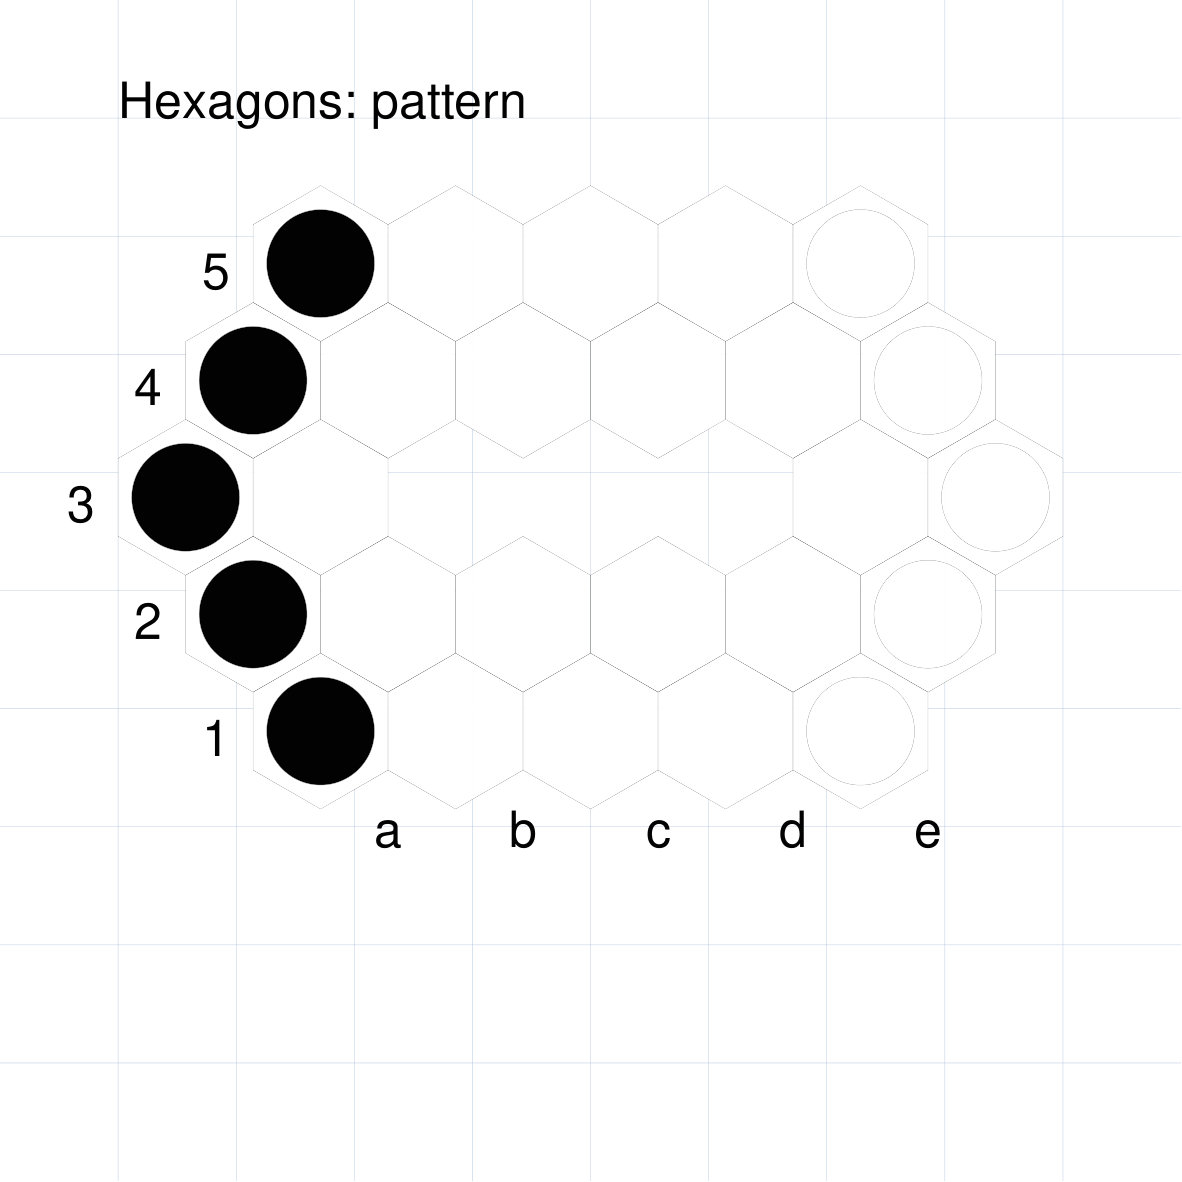
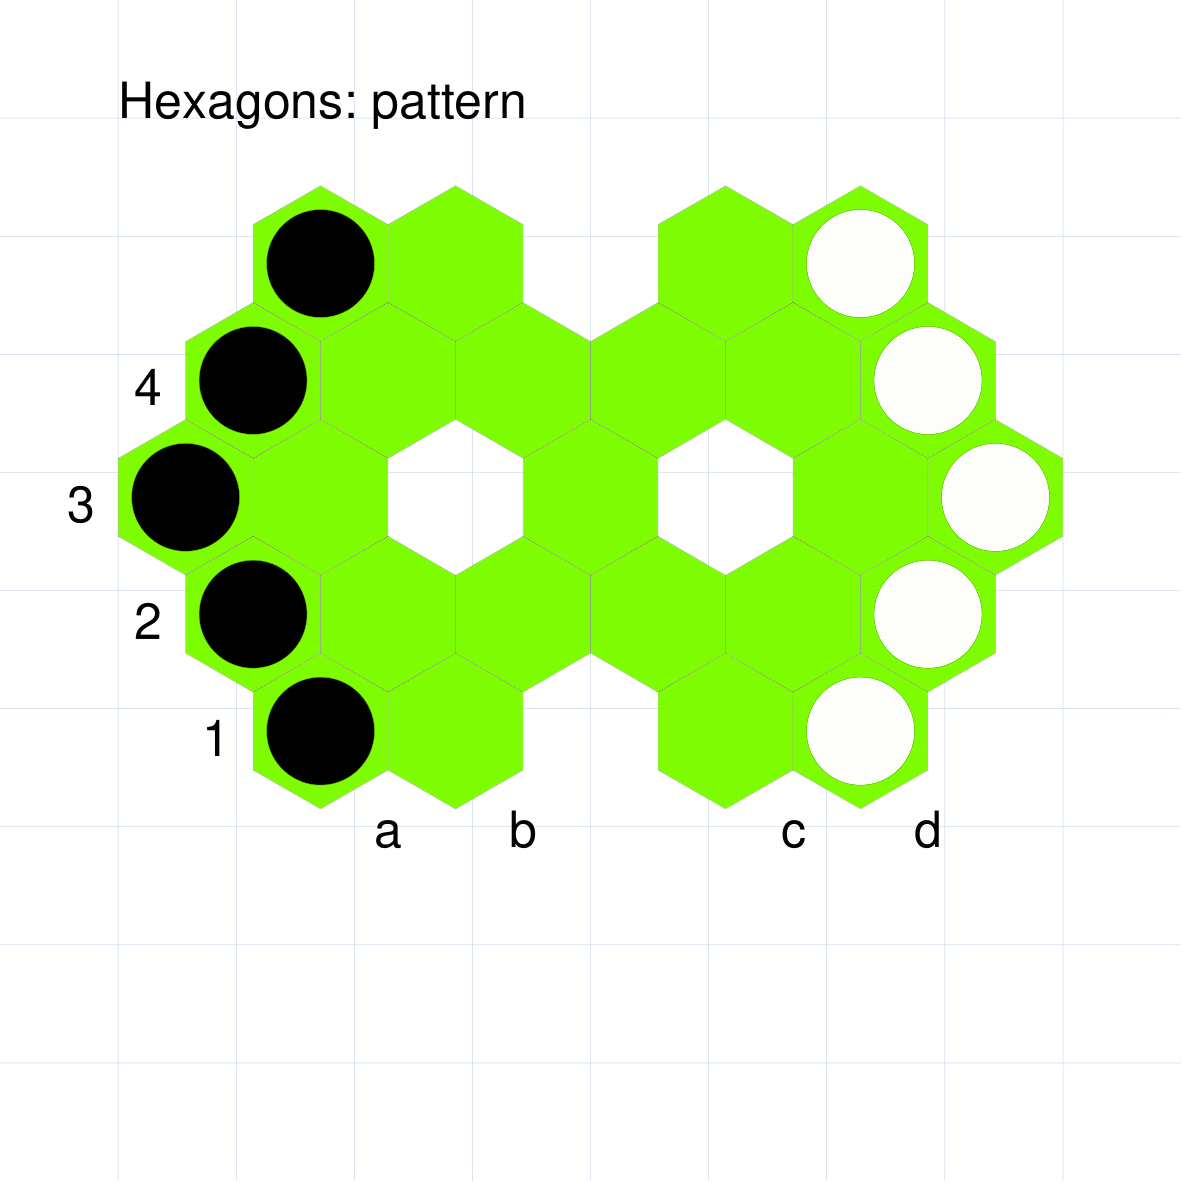
WIP on Hex Abstracts label

diff --git a/protograf/objects/abstracts.py b/protograf/objects/abstracts.py
@@ -113,11 +113,18 @@ class AbstractGameObject(BaseShape):
         # ---- setup board
         self.setup_board()
 
+    def hexhex_size(text):
+        # Search for one or more digits at the end of the string
+        match = re.search(r"\d+$", text)
+        if match:
+            number = match.group()
+            return int(number)
+
     def game_name_error(self):
         """Generate feedback if incorrect game name used."""
         feedback(
             "The AbstractGame 'name' property must be one of the following: "
-            f" Chess, Go, Checkers, Shogi, Hex, or grid (not '{self.name}').",
+            f" Chess, Go, Checkers, Shogi, Hex, HexHex, or grid (not '{self.name}').",
             True,
             True,
         )
@@ -197,6 +204,10 @@ class AbstractGameObject(BaseShape):
                 self.label_start = "TR"
                 self.label_type = "NN"
             case "hexagons":
+                if self.fills is None:
+                    self.fills = ("white",)
+                if self.stroke is None:
+                    self.stroke = "black"
                 if not self.rows:
                     self.rows = 8
                 if not self.cols:
@@ -209,6 +220,10 @@ class AbstractGameObject(BaseShape):
                 if self.label_type is None:
                     self.label_type = "AN"
             case "hex":
+                if self.fills is None:
+                    self.fills = ("white",)
+                if self.stroke is None:
+                    self.stroke = "black"
                 self.rows = 11
                 self.cols = 16
                 _max_cells = max(self.rows, self.cols)
@@ -233,6 +248,10 @@ class AbstractGameObject(BaseShape):
                 """
             case "hexhex":
                 # TODO - calc rows and cols from side
+                if self.fills is None:
+                    self.fills = ("white",)
+                if self.stroke is None:
+                    self.stroke = "black"
                 _max_cells = self.side * 2 - 1
                 self.cell_size = _available / _max_cells / 0.866
                 self.board_type = "hexagonal"
@@ -240,11 +259,19 @@ class AbstractGameObject(BaseShape):
                 self.label_type = "AN"
             case "tri" | "triangle" | "triangular":
                 self.board_type == "tri"
+                if self.fills is None:
+                    self.fills = ("white",)
+                if self.stroke is None:
+                    self.stroke = "black"
                 raise NotImplementedError(
                     "Sorry, a triangular board is not available yet."
                 )
             case None:
                 # can ignore the name for this AB
+                if self.fills is None:
+                    self.fills = ("white",)
+                if self.stroke is None:
+                    self.stroke = "black"
                 if self.label_start is None:
                     self.label_start = "BL"
                 if self.label_type is None:
@@ -447,6 +474,20 @@ class AbstractGameObject(BaseShape):
         """Draw labels around the board."""
         from protograf.protos import Text
 
+        def hex_col_label():
+            if _label_start in ["br", "bl"]:
+                x = adjacent_cell.se.x
+                y = adjacent_cell.s.y + shift * loffset_col * 1.5
+            elif _label_start in ["tr", "tl"]:
+                x = adjacent_cell.nw.x
+                y = adjacent_cell.n.y  # + shift * loffset_col
+            else:
+                x, y = 0, 0
+                raise NotImplementedError(
+                    "Cannot process label_start of {self.label_start}"
+                )
+            return x, y
+
         # ---- label ranges
         _label_start = _lower(self.label_start)
         if self.label:
@@ -483,14 +524,16 @@ class AbstractGameObject(BaseShape):
             lkeys["font_name"] = self.label_font
             lkeys["font_size"] = self.label_size
             lkeys["stroke"] = self.label_stroke
-            #
-            # ---- column labels
+
+            # ---- column labels for label row
             if _label_start in ["tr", "tl"]:
                 label_row = 1
                 shift = -1
+                row_shift = 1
             else:
                 label_row = self.rows
                 shift = 1
+                row_shift = -1
             col_num = 1
             for col_no in range(start_col, end_col, delta_col):
                 # skip blank columns at start OR end of row
@@ -520,22 +563,39 @@ class AbstractGameObject(BaseShape):
                             "Cannot process label_start of {self.label_start}"
                         )
                 elif self.board_type == "hexagonal":
-                    if _label_start in ["br", "bl"]:
-                        x = adjacent_cell.se.x
-                        y = adjacent_cell.s.y + shift * loffset_col * 1.5
-                    elif _label_start in ["tr", "tl"]:
-                        x = adjacent_cell.nw.x
-                        y = adjacent_cell.n.y  # + shift * loffset_col
-                    else:
-                        x, y = 0, 0
-                        raise NotImplementedError(
-                            "Cannot process label_start of {self.label_start}"
-                        )
+                    x, y = hex_col_label()
                 elif self.board_type == "tri":
                     raise NotImplementedError("No labels for Triangle grids!")
                 # print('&&& col label', ltype, col_value, x, y)
                 Text(col_value, x=x, y=y, **lkeys)
                 col_num += 1
+
+            # ---- col labels "extras" for hex
+            if self.board_type == "hexagonal":
+                max_active_cells = self.cells_non_blank[label_row - 1]
+                end_row = self.rows - label_row + 1
+                for check_row in range(label_row, end_row, row_shift):
+                    row_active_cells = self.cells_non_blank[check_row - 1]
+                    if len(row_active_cells) <= len(max_active_cells):
+                        continue
+                    for col_no in range(start_col, end_col, delta_col):
+                        # skip blank columns at start OR end of row
+                        col_exists = any(
+                            len(tup) > 1 and tup[0] == col_no
+                            for tup in row_active_cells
+                        )
+                        if not col_exists:
+                            continue
+                        col_value = str(col_num)
+                        if self.label_type in ["AN", "AA"]:
+                            col_value = tools.alpha_column(
+                                col_num, lower=self.labels_lower
+                            )
+                        else:
+                            col_value = str(col_num)
+                        # get cell geo to use for label position
+                        adjacent_cell = self.board_layout.cells[(col_no, check_row)]
+                        x, y = hex_col_label()
 
             # ---- row labels
             if _label_start in ["tl", "bl"]:
@@ -684,6 +744,8 @@ class AbstractGameObject(BaseShape):
                     cell_geo_label = cell_geo._replace(name=cell_id)
                     setattr(self, cell_id, cell_geo_label)
             case "hexagons" | "hex":
+                # TODO - pass 'shapes' into Hexagons for drawing e.g. circles
+                colr = self.fills[0] if self.fills else "white"
                 self.board_layout = Hexagons(
                     cols=self.cols,
                     rows=self.rows,
@@ -692,8 +754,11 @@ class AbstractGameObject(BaseShape):
                     orientation=HexOrientationName.POINTY.value,  # hard-coded: HexGrid
                     _draw_grid=False,
                     pattern=self.pattern,
-                    height=self.cell_size,  # single hexagon size
                     user="AbstractGame",
+                    # single hexagon properties:-
+                    height=self.cell_size,
+                    stroke_width=self.stroke_width,
+                    fill=colr,
                 )
                 # print(f'&&& HEXES BOARD {self.board_layout.cells.keys()=}')
                 # ---- HEXES default cell attributes (plus label); track non-blank cells

diff --git a/examples/objects/abstracts.py b/examples/objects/abstracts.py
@@ -144,17 +144,18 @@ aghp = AbstractGame(
     name="hexagons",
     rows=5,
     cols=7,
+    fills=['lawngreen'],
     label=True,
     pattern = """
-    . O O O 0 O .
+    . O O . 0 O .
      0 O O 0 0 O .
-    O O . . . O O
+    O O . 0 . O O
      0 O O O 0 O .
-    . O O 0 0 O .
+    . O O . 0 O .
     """)
 AbstractState(
     board=aghp,
-    positions="B3W/B4W/B2W/B4W/B3W")  # SHOULD ignore blank cells!!
+    positions="B2W/B4W/B3W/B4W/B2W")  # SHOULD ignore blank cells!!
 # PageBreak()
 
 
